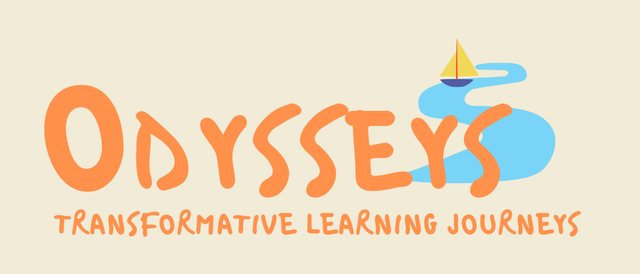
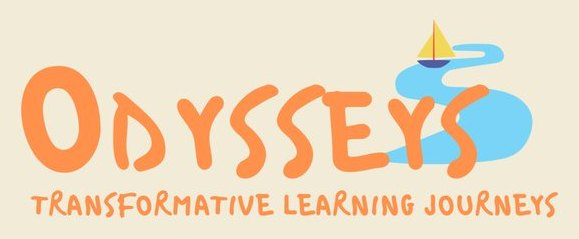
Trim plain borders from event pictures

Changed region(s): [[0.0311, 0.0879, 0.9637, 0.9079]]

diff --git a/assets/css/style.css b/assets/css/style.css
@@ -328,7 +328,7 @@ main > .wrap:first-child { padding-top: 48px; }
 /* Event pictures */
 .event-image-link { flex: none; display: block; }
 .event-image { display: block; flex: none; width: 168px; aspect-ratio: 3 / 2; object-fit: cover; }
-.event-image.contain { object-fit: contain; background: var(--cover); }
+.event-image.contain { object-fit: contain; }
 .event-text { flex: 1; min-width: 0; }
 @media (max-width: 640px) {
   .event.has-image { flex-wrap: wrap; }
